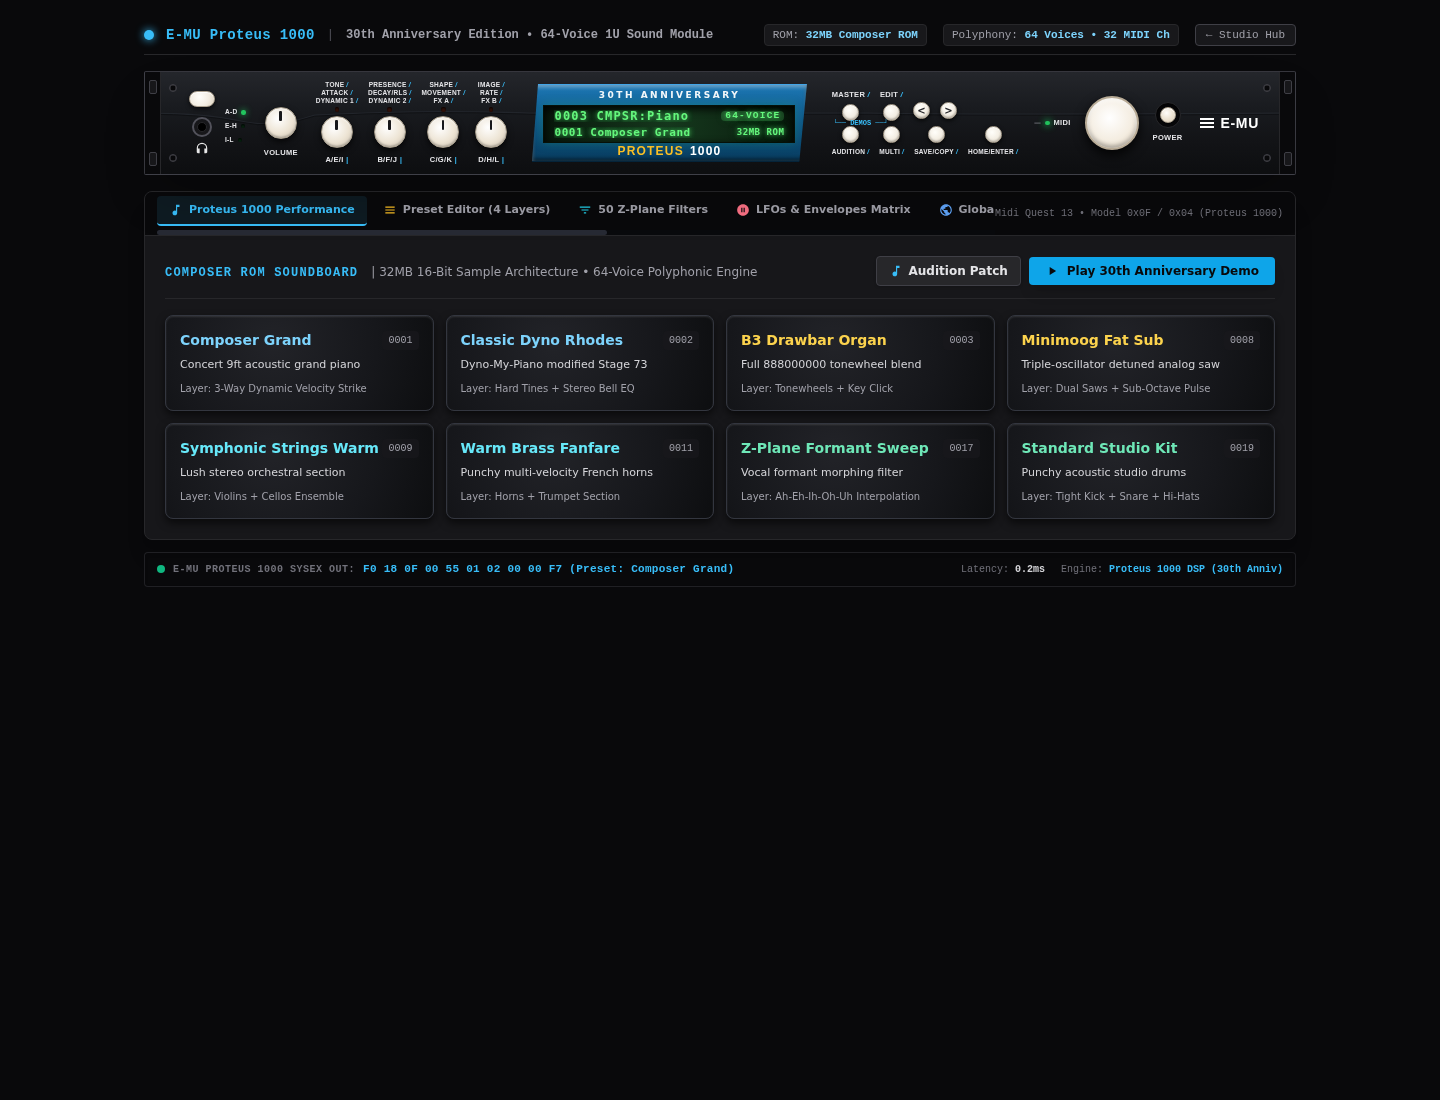
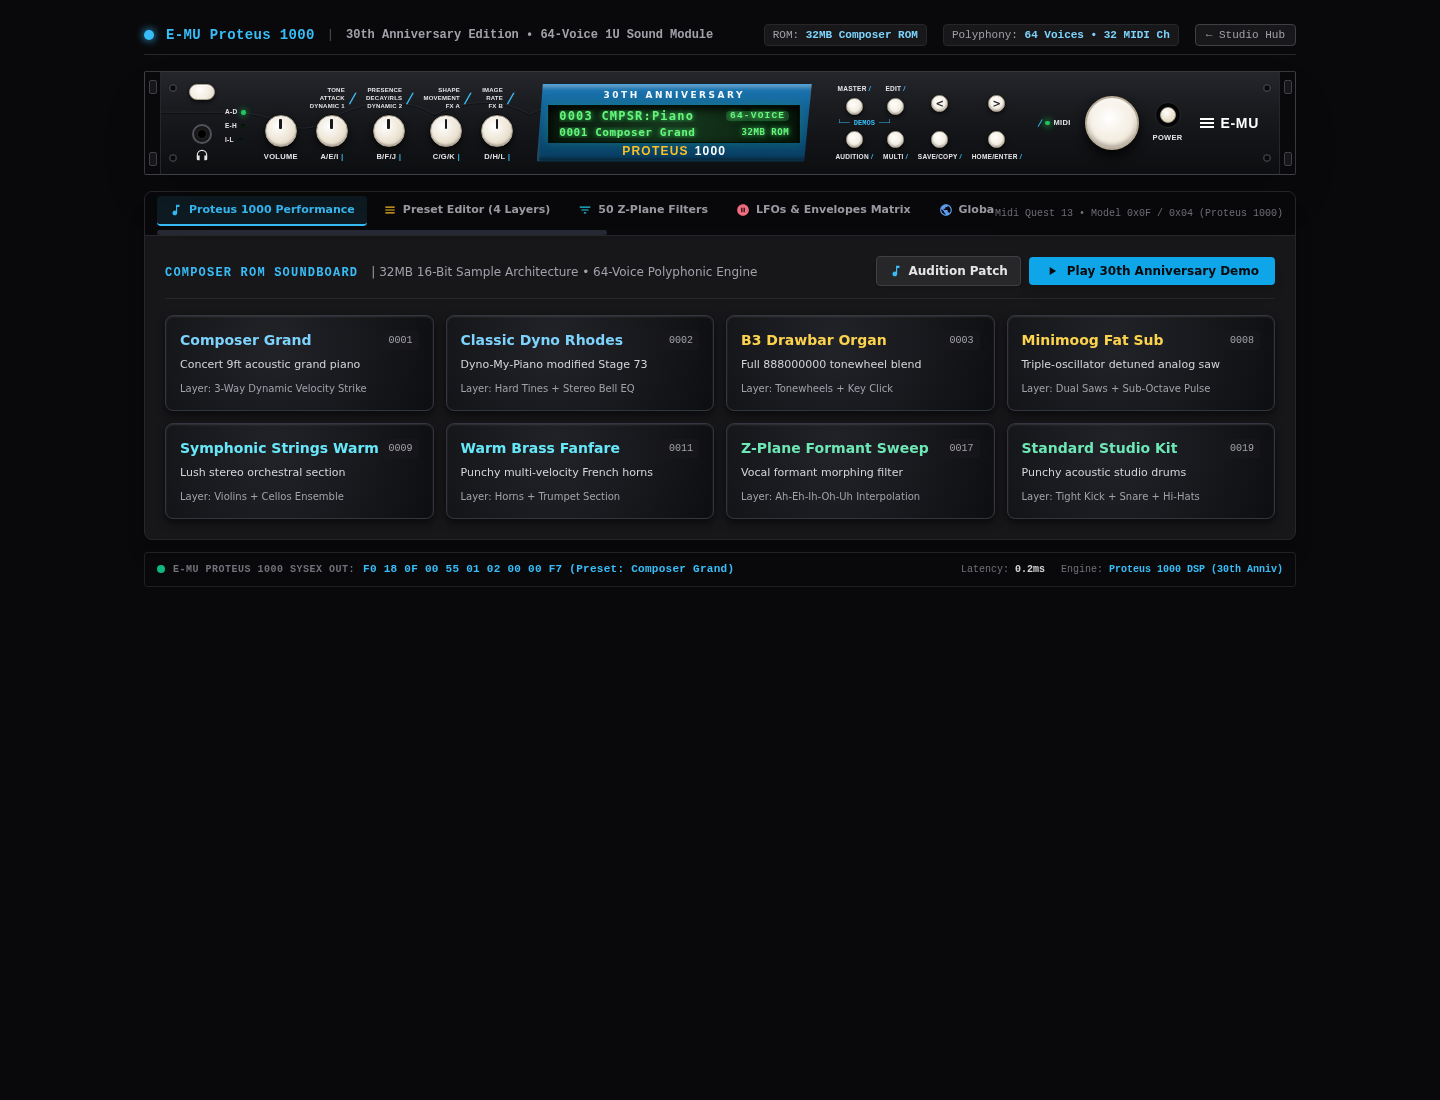
fix(proteus-1000): perfect physical alignment of knobs, relief scallops, and button matrix

Changed region(s): [[0.1875, 0.0618, 0.7188, 0.1545], [0.125, 0.0618, 0.1562, 0.1545]]

diff --git a/preview/proteus_1000.html b/preview/proteus_1000.html
@@ -253,10 +253,12 @@
   <!-- ========================================================================= -->
   <div class="w-full max-w-6xl h-[104px] p1k-faceplate rounded-sm flex items-center justify-between px-3 shadow-2xl relative select-none border-t border-zinc-600/60 overflow-hidden">
     
-    <!-- SVG Etched Contour Wave Line across front panel -->
+    <!-- SVG Etched Scalloped Contour Line across left front panel (matches physical E-MU 1U chassis) -->
     <svg class="p1k-relief-line" viewBox="0 0 1152 104" preserveAspectRatio="none">
-      <path d="M 0,42 Q 60,42 95,50 T 170,44 Q 280,38 385,42 L 395,42 L 725,42 Q 850,44 1152,42" fill="none" stroke="#2a2e36" stroke-width="1.5" />
-      <path d="M 0,43 Q 60,43 95,51 T 170,45 Q 280,39 385,43 L 395,43 L 725,43 Q 850,45 1152,43" fill="none" stroke="#0a0b0d" stroke-width="1" />
+      <!-- Dark drop-shadow etch -->
+      <path d="M 0,42 L 85,42 Q 115,42 140,54 T 195,44 Q 220,32 245,32 Q 270,32 290,44 Q 315,32 340,32 Q 365,32 385,44 Q 410,32 435,32 Q 460,32 475,44 L 490,44" fill="none" stroke="#0a0b0d" stroke-width="1.5" />
+      <!-- Top highlight etch -->
+      <path d="M 0,41 L 85,41 Q 115,41 140,53 T 195,43 Q 220,31 245,31 Q 270,31 290,43 Q 315,31 340,31 Q 365,31 385,43 Q 410,31 435,31 Q 460,31 475,43 L 490,43" fill="none" stroke="#2d313a" stroke-width="1" />
     </svg>
 
     <!-- LEFT RACK EAR (Black with 2 Oval Mounting Holes & Countersunk Screws) -->
@@ -277,7 +279,7 @@
     <div class="flex items-center gap-3.5 pl-8 z-10">
       
       <!-- Phones Jack & Controller Mode Button -->
-      <div class="flex flex-col items-center justify-between h-[72px] py-1">
+      <div class="flex flex-col items-center justify-between h-[82px] py-0.5">
         <!-- Oval Controller Mode Select Button -->
         <button onclick="cycleP1kMode()" class="p1k-btn-oval" title="Cycle Real-Time Controller Row (A-D / E-H / I-L)"></button>
         <!-- 1/4" Headphone Jack -->
@@ -308,71 +310,92 @@
         </div>
       </div>
 
-      <!-- Volume Potentiometer -->
-      <div class="flex flex-col items-center justify-end h-[74px] pb-0.5 ml-1">
-        <div class="p1k-knob" data-param="vol" data-val="115" onmousedown="startKnobDrag(event, 'vol')">
-          <div class="p1k-knob-pointer" id="vol-pointer"></div>
-        </div>
-        <span class="silkscreen-p1k mt-2">VOLUME</span>
-      </div>
-
-      <!-- 4 Real-Time Parameter Knobs with Silkscreen Columns -->
-      <div class="flex items-center gap-2.5 ml-1">
+      <!-- ALL 5 KNOBS ALIGNED ON EXACT IDENTICAL CENTERLINE (h-[82px]) -->
+      <div class="flex items-center gap-3 ml-1">
         
-        <!-- Knob 1: A/E/I (TONE / ATTACK / DYNAMIC 1) -->
-        <div class="flex flex-col items-center">
-          <div class="flex flex-col items-center text-center -mb-0.5">
-            <span class="silkscreen-p1k text-[6.5px] leading-tight">TONE <span class="slash-cyan">/</span></span>
-            <span class="silkscreen-p1k text-[6.5px] leading-tight">ATTACK <span class="slash-cyan">/</span></span>
-            <span class="silkscreen-p1k text-[6.5px] leading-tight">DYNAMIC 1 <span class="slash-cyan">/</span></span>
+        <!-- Knob 0: VOLUME -->
+        <div class="flex flex-col items-center justify-between h-[82px] py-0.5">
+          <div class="h-[28px] w-full flex items-center justify-center"></div>
+          <div class="p1k-knob" data-param="vol" data-val="115" onmousedown="startKnobDrag(event, 'vol')">
+            <div class="p1k-knob-pointer" id="vol-pointer"></div>
           </div>
-          <div id="led-param-1" class="led-dot led-off my-1"></div>
+          <span class="silkscreen-p1k text-[7.5px]">VOLUME</span>
+        </div>
+
+        <!-- Knob 1: A/E/I (TONE / ATTACK / DYNAMIC 1 with Tall Cyan Slash) -->
+        <div class="flex flex-col items-center justify-between h-[82px] py-0.5">
+          <div class="h-[28px] flex items-center justify-center relative">
+            <div class="flex items-center gap-0.5">
+              <div class="flex flex-col items-end text-right">
+                <span class="silkscreen-p1k text-[6px] leading-[8px]">TONE</span>
+                <span class="silkscreen-p1k text-[6px] leading-[8px]">ATTACK</span>
+                <span class="silkscreen-p1k text-[6px] leading-[8px]">DYNAMIC 1</span>
+              </div>
+              <span class="text-[#38bdf8] font-black text-sm italic leading-none pl-0.5 select-none">/</span>
+            </div>
+            <div id="led-param-1" class="led-dot led-off absolute -bottom-1.5 left-1/2 -translate-x-1/2"></div>
+          </div>
           <div class="p1k-knob" data-param="k1" data-val="100" onmousedown="startKnobDrag(event, 'k1')">
             <div class="p1k-knob-pointer" id="k1-pointer"></div>
           </div>
-          <span class="silkscreen-p1k mt-1.5">A/E/I <span class="slash-cyan">|</span></span>
+          <span class="silkscreen-p1k text-[7.5px]">A/E/I <span class="slash-cyan">|</span></span>
         </div>
 
-        <!-- Knob 2: B/F/J (PRESENCE / DECAY/RLS / DYNAMIC 2) -->
-        <div class="flex flex-col items-center">
-          <div class="flex flex-col items-center text-center -mb-0.5">
-            <span class="silkscreen-p1k text-[6.5px] leading-tight">PRESENCE <span class="slash-cyan">/</span></span>
-            <span class="silkscreen-p1k text-[6.5px] leading-tight">DECAY/RLS <span class="slash-cyan">/</span></span>
-            <span class="silkscreen-p1k text-[6.5px] leading-tight">DYNAMIC 2 <span class="slash-cyan">/</span></span>
+        <!-- Knob 2: B/F/J (PRESENCE / DECAY/RLS / DYNAMIC 2 with Tall Cyan Slash) -->
+        <div class="flex flex-col items-center justify-between h-[82px] py-0.5">
+          <div class="h-[28px] flex items-center justify-center relative">
+            <div class="flex items-center gap-0.5">
+              <div class="flex flex-col items-end text-right">
+                <span class="silkscreen-p1k text-[6px] leading-[8px]">PRESENCE</span>
+                <span class="silkscreen-p1k text-[6px] leading-[8px]">DECAY/RLS</span>
+                <span class="silkscreen-p1k text-[6px] leading-[8px]">DYNAMIC 2</span>
+              </div>
+              <span class="text-[#38bdf8] font-black text-sm italic leading-none pl-0.5 select-none">/</span>
+            </div>
+            <div id="led-param-2" class="led-dot led-off absolute -bottom-1.5 left-1/2 -translate-x-1/2"></div>
           </div>
-          <div id="led-param-2" class="led-dot led-off my-1"></div>
           <div class="p1k-knob" data-param="k2" data-val="64" onmousedown="startKnobDrag(event, 'k2')">
             <div class="p1k-knob-pointer" id="k2-pointer"></div>
           </div>
-          <span class="silkscreen-p1k mt-1.5">B/F/J <span class="slash-cyan">|</span></span>
+          <span class="silkscreen-p1k text-[7.5px]">B/F/J <span class="slash-cyan">|</span></span>
         </div>
 
-        <!-- Knob 3: C/G/K (SHAPE / MOVEMENT / FX A) -->
-        <div class="flex flex-col items-center">
-          <div class="flex flex-col items-center text-center -mb-0.5">
-            <span class="silkscreen-p1k text-[6.5px] leading-tight">SHAPE <span class="slash-cyan">/</span></span>
-            <span class="silkscreen-p1k text-[6.5px] leading-tight">MOVEMENT <span class="slash-cyan">/</span></span>
-            <span class="silkscreen-p1k text-[6.5px] leading-tight">FX A <span class="slash-cyan">/</span></span>
+        <!-- Knob 3: C/G/K (SHAPE / MOVEMENT / FX A with Tall Cyan Slash) -->
+        <div class="flex flex-col items-center justify-between h-[82px] py-0.5">
+          <div class="h-[28px] flex items-center justify-center relative">
+            <div class="flex items-center gap-0.5">
+              <div class="flex flex-col items-end text-right">
+                <span class="silkscreen-p1k text-[6px] leading-[8px]">SHAPE</span>
+                <span class="silkscreen-p1k text-[6px] leading-[8px]">MOVEMENT</span>
+                <span class="silkscreen-p1k text-[6px] leading-[8px]">FX A</span>
+              </div>
+              <span class="text-[#38bdf8] font-black text-sm italic leading-none pl-0.5 select-none">/</span>
+            </div>
+            <div id="led-param-3" class="led-dot led-off absolute -bottom-1.5 left-1/2 -translate-x-1/2"></div>
           </div>
-          <div id="led-param-3" class="led-dot led-off my-1"></div>
           <div class="p1k-knob" data-param="k3" data-val="85" onmousedown="startKnobDrag(event, 'k3')">
             <div class="p1k-knob-pointer" id="k3-pointer"></div>
           </div>
-          <span class="silkscreen-p1k mt-1.5">C/G/K <span class="slash-cyan">|</span></span>
+          <span class="silkscreen-p1k text-[7.5px]">C/G/K <span class="slash-cyan">|</span></span>
         </div>
 
-        <!-- Knob 4: D/H/L (IMAGE / RATE / FX B) -->
-        <div class="flex flex-col items-center">
-          <div class="flex flex-col items-center text-center -mb-0.5">
-            <span class="silkscreen-p1k text-[6.5px] leading-tight">IMAGE <span class="slash-cyan">/</span></span>
-            <span class="silkscreen-p1k text-[6.5px] leading-tight">RATE <span class="slash-cyan">/</span></span>
-            <span class="silkscreen-p1k text-[6.5px] leading-tight">FX B <span class="slash-cyan">/</span></span>
+        <!-- Knob 4: D/H/L (IMAGE / RATE / FX B with Tall Cyan Slash) -->
+        <div class="flex flex-col items-center justify-between h-[82px] py-0.5">
+          <div class="h-[28px] flex items-center justify-center relative">
+            <div class="flex items-center gap-0.5">
+              <div class="flex flex-col items-end text-right">
+                <span class="silkscreen-p1k text-[6px] leading-[8px]">IMAGE</span>
+                <span class="silkscreen-p1k text-[6px] leading-[8px]">RATE</span>
+                <span class="silkscreen-p1k text-[6px] leading-[8px]">FX B</span>
+              </div>
+              <span class="text-[#38bdf8] font-black text-sm italic leading-none pl-0.5 select-none">/</span>
+            </div>
+            <div id="led-param-4" class="led-dot led-off absolute -bottom-1.5 left-1/2 -translate-x-1/2"></div>
           </div>
-          <div id="led-param-4" class="led-dot led-off my-1"></div>
           <div class="p1k-knob" data-param="k4" data-val="40" onmousedown="startKnobDrag(event, 'k4')">
             <div class="p1k-knob-pointer" id="k4-pointer"></div>
           </div>
-          <span class="silkscreen-p1k mt-1.5">D/H/L <span class="slash-cyan">|</span></span>
+          <span class="silkscreen-p1k text-[7.5px]">D/H/L <span class="slash-cyan">|</span></span>
         </div>
 
       </div>
@@ -390,7 +413,7 @@
       <!-- 2x24 Character Alphanumeric Green LCD -->
       <div class="p1k-lcd w-[252px] h-[38px] px-2.5 py-1 rounded-xs flex flex-col justify-between font-lcd">
         <div class="flex items-center justify-between text-xs font-bold lcd-green-text tracking-widest leading-none">
-          <span id="p1k-lcd-line1" class="truncate pr-1">0003 CMPSR:Audition</span>
+          <span id="p1k-lcd-line1" class="truncate pr-1">0003 CMPSR:Piano</span>
           <span class="text-[9.5px] bg-[#64f77c]/20 px-1 rounded font-mono shrink-0">64-VOICE</span>
         </div>
         <div class="flex items-center justify-between text-[11px] font-semibold lcd-green-text tracking-wider leading-none">
@@ -410,75 +433,79 @@
     <!-- RIGHT SECTION: 8 BUTTON MATRIX, DEMOS BRACKET, DATA WHEEL, POWER, E-MU LOGO -->
     <div class="flex items-center gap-3.5 pr-6 z-10">
       
-      <!-- 8-Button Tactile Pushbutton Matrix (2 Rows x 4 Columns) -->
-      <div class="flex flex-col justify-between h-[72px] py-0.5">
+      <!-- 8-Button Tactile Pushbutton Matrix (4 Symmetrical Columns, h-[82px]) -->
+      <div class="relative flex items-center gap-2.5 h-[82px] py-0.5">
         
-        <!-- Top Row: MASTER /, EDIT /, <, > -->
-        <div class="flex items-center gap-2.5">
-          
-          <!-- Master / -->
-          <div class="flex flex-col items-center">
-            <span class="silkscreen-p1k mb-1">MASTER <span class="slash-cyan">/</span></span>
-            <button onclick="switchP1kTab('global')" class="p1k-btn-round" title="Master / Global Settings"></button>
-          </div>
-
-          <!-- Edit / -->
-          <div class="flex flex-col items-center">
-            <span class="silkscreen-p1k mb-1">EDIT <span class="slash-cyan">/</span></span>
-            <button onclick="switchP1kTab('preset')" class="p1k-btn-round" title="Edit Preset Parameters"></button>
-          </div>
-
-          <!-- Cursor Left < -->
-          <div class="flex flex-col items-center pt-2.5">
-            <button onclick="p1kCursorBump(-1)" class="p1k-btn-round font-bold text-[10px] text-zinc-800" title="Cursor Left">&lt;</button>
-          </div>
-
-          <!-- Cursor Right > -->
-          <div class="flex flex-col items-center pt-2.5">
-            <button onclick="p1kCursorBump(1)" class="p1k-btn-round font-bold text-[10px] text-zinc-800" title="Cursor Right">&gt;</button>
-          </div>
-
-        </div>
-
-        <!-- Middle Demos Bracket -->
-        <div class="w-[58px] flex items-center justify-center text-[#38bdf8] text-[7px] font-mono font-bold leading-none -my-0.5">
+        <!-- Centered DEMOS Bracket across Columns 1 & 2 -->
+        <div class="absolute top-[38px] left-[1px] w-[56px] flex items-center justify-center text-[#38bdf8] text-[7px] font-mono font-bold leading-none pointer-events-none select-none">
           <span>└── DEMOS ──┘</span>
         </div>
 
-        <!-- Bottom Row: AUDITION /, MULTI /, SAVE/COPY /, HOME/ENTER / & MIDI -->
-        <div class="flex items-center gap-2.5">
-          
-          <!-- Audition / -->
+        <!-- Column 1: MASTER / (Top) & AUDITION / (Bottom) -->
+        <div class="flex flex-col items-center justify-between h-full">
+          <!-- MASTER / -->
+          <div class="flex flex-col items-center">
+            <span class="silkscreen-p1k text-[6.5px] mb-1">MASTER <span class="slash-cyan">/</span></span>
+            <button onclick="switchP1kTab('global')" class="p1k-btn-round" title="Master / Global Settings"></button>
+          </div>
+          <div class="h-[9px] w-full"></div>
+          <!-- AUDITION / -->
           <div class="flex flex-col items-center">
             <button onclick="auditionP1kCurrent()" class="p1k-btn-round" title="Audition Preset"></button>
-            <span class="silkscreen-p1k mt-1 text-[6.5px]">AUDITION <span class="slash-cyan">/</span></span>
+            <span class="silkscreen-p1k text-[6.5px] mt-1">AUDITION <span class="slash-cyan">/</span></span>
           </div>
+        </div>
 
-          <!-- Multi / -->
+        <!-- Column 2: EDIT / (Top) & MULTI / (Bottom) -->
+        <div class="flex flex-col items-center justify-between h-full">
+          <!-- EDIT / -->
+          <div class="flex flex-col items-center">
+            <span class="silkscreen-p1k text-[6.5px] mb-1">EDIT <span class="slash-cyan">/</span></span>
+            <button onclick="switchP1kTab('preset')" class="p1k-btn-round" title="Edit Preset Parameters"></button>
+          </div>
+          <div class="h-[9px] w-full"></div>
+          <!-- MULTI / -->
           <div class="flex flex-col items-center">
             <button onclick="switchP1kTab('multimode')" class="p1k-btn-round" title="MultiMode Setup"></button>
-            <span class="silkscreen-p1k mt-1 text-[6.5px]">MULTI <span class="slash-cyan">/</span></span>
+            <span class="silkscreen-p1k text-[6.5px] mt-1">MULTI <span class="slash-cyan">/</span></span>
           </div>
+        </div>
 
-          <!-- Save/Copy / -->
+        <!-- Column 3: < (Cursor Left) & SAVE/COPY / (Bottom) -->
+        <div class="flex flex-col items-center justify-between h-full">
+          <!-- Cursor Left < -->
+          <div class="flex flex-col items-center">
+            <div class="h-[11px] w-full"></div>
+            <button onclick="p1kCursorBump(-1)" class="p1k-btn-round font-bold text-[10px] text-zinc-800" title="Cursor Left">&lt;</button>
+          </div>
+          <div class="h-[9px] w-full"></div>
+          <!-- SAVE/COPY / -->
           <div class="flex flex-col items-center">
             <button onclick="switchP1kTab('librarian')" class="p1k-btn-round" title="Save / Copy / Bank Librarian"></button>
-            <span class="silkscreen-p1k mt-1 text-[6.5px]">SAVE/COPY <span class="slash-cyan">/</span></span>
+            <span class="silkscreen-p1k text-[6.5px] mt-1">SAVE/COPY <span class="slash-cyan">/</span></span>
           </div>
+        </div>
 
-          <!-- Home/Enter / -->
+        <!-- Column 4: > (Cursor Right) & HOME/ENTER / (Bottom) -->
+        <div class="flex flex-col items-center justify-between h-full">
+          <!-- Cursor Right > -->
+          <div class="flex flex-col items-center">
+            <div class="h-[11px] w-full"></div>
+            <button onclick="p1kCursorBump(1)" class="p1k-btn-round font-bold text-[10px] text-zinc-800" title="Cursor Right">&gt;</button>
+          </div>
+          <div class="h-[9px] w-full"></div>
+          <!-- HOME/ENTER / -->
           <div class="flex flex-col items-center">
             <button onclick="switchP1kTab('performance')" class="p1k-btn-round" title="Home / Enter"></button>
-            <span class="silkscreen-p1k mt-1 text-[6.5px]">HOME/ENTER <span class="slash-cyan">/</span></span>
+            <span class="silkscreen-p1k text-[6.5px] mt-1">HOME/ENTER <span class="slash-cyan">/</span></span>
           </div>
-
         </div>
 
       </div>
 
-      <!-- — [LED] MIDI Indicator -->
+      <!-- / [LED] MIDI Indicator -->
       <div class="flex items-center gap-1 text-[8px] font-bold text-zinc-400 pl-0.5">
-        <span class="text-zinc-500 font-bold text-[7px] leading-none">&mdash;</span>
+        <span class="slash-cyan text-[9px] leading-none">/</span>
         <div id="led-midi" class="led-dot led-green-on animate-pulse"></div>
         <span class="silkscreen-p1k text-[7.5px] leading-none">MIDI</span>
       </div>
